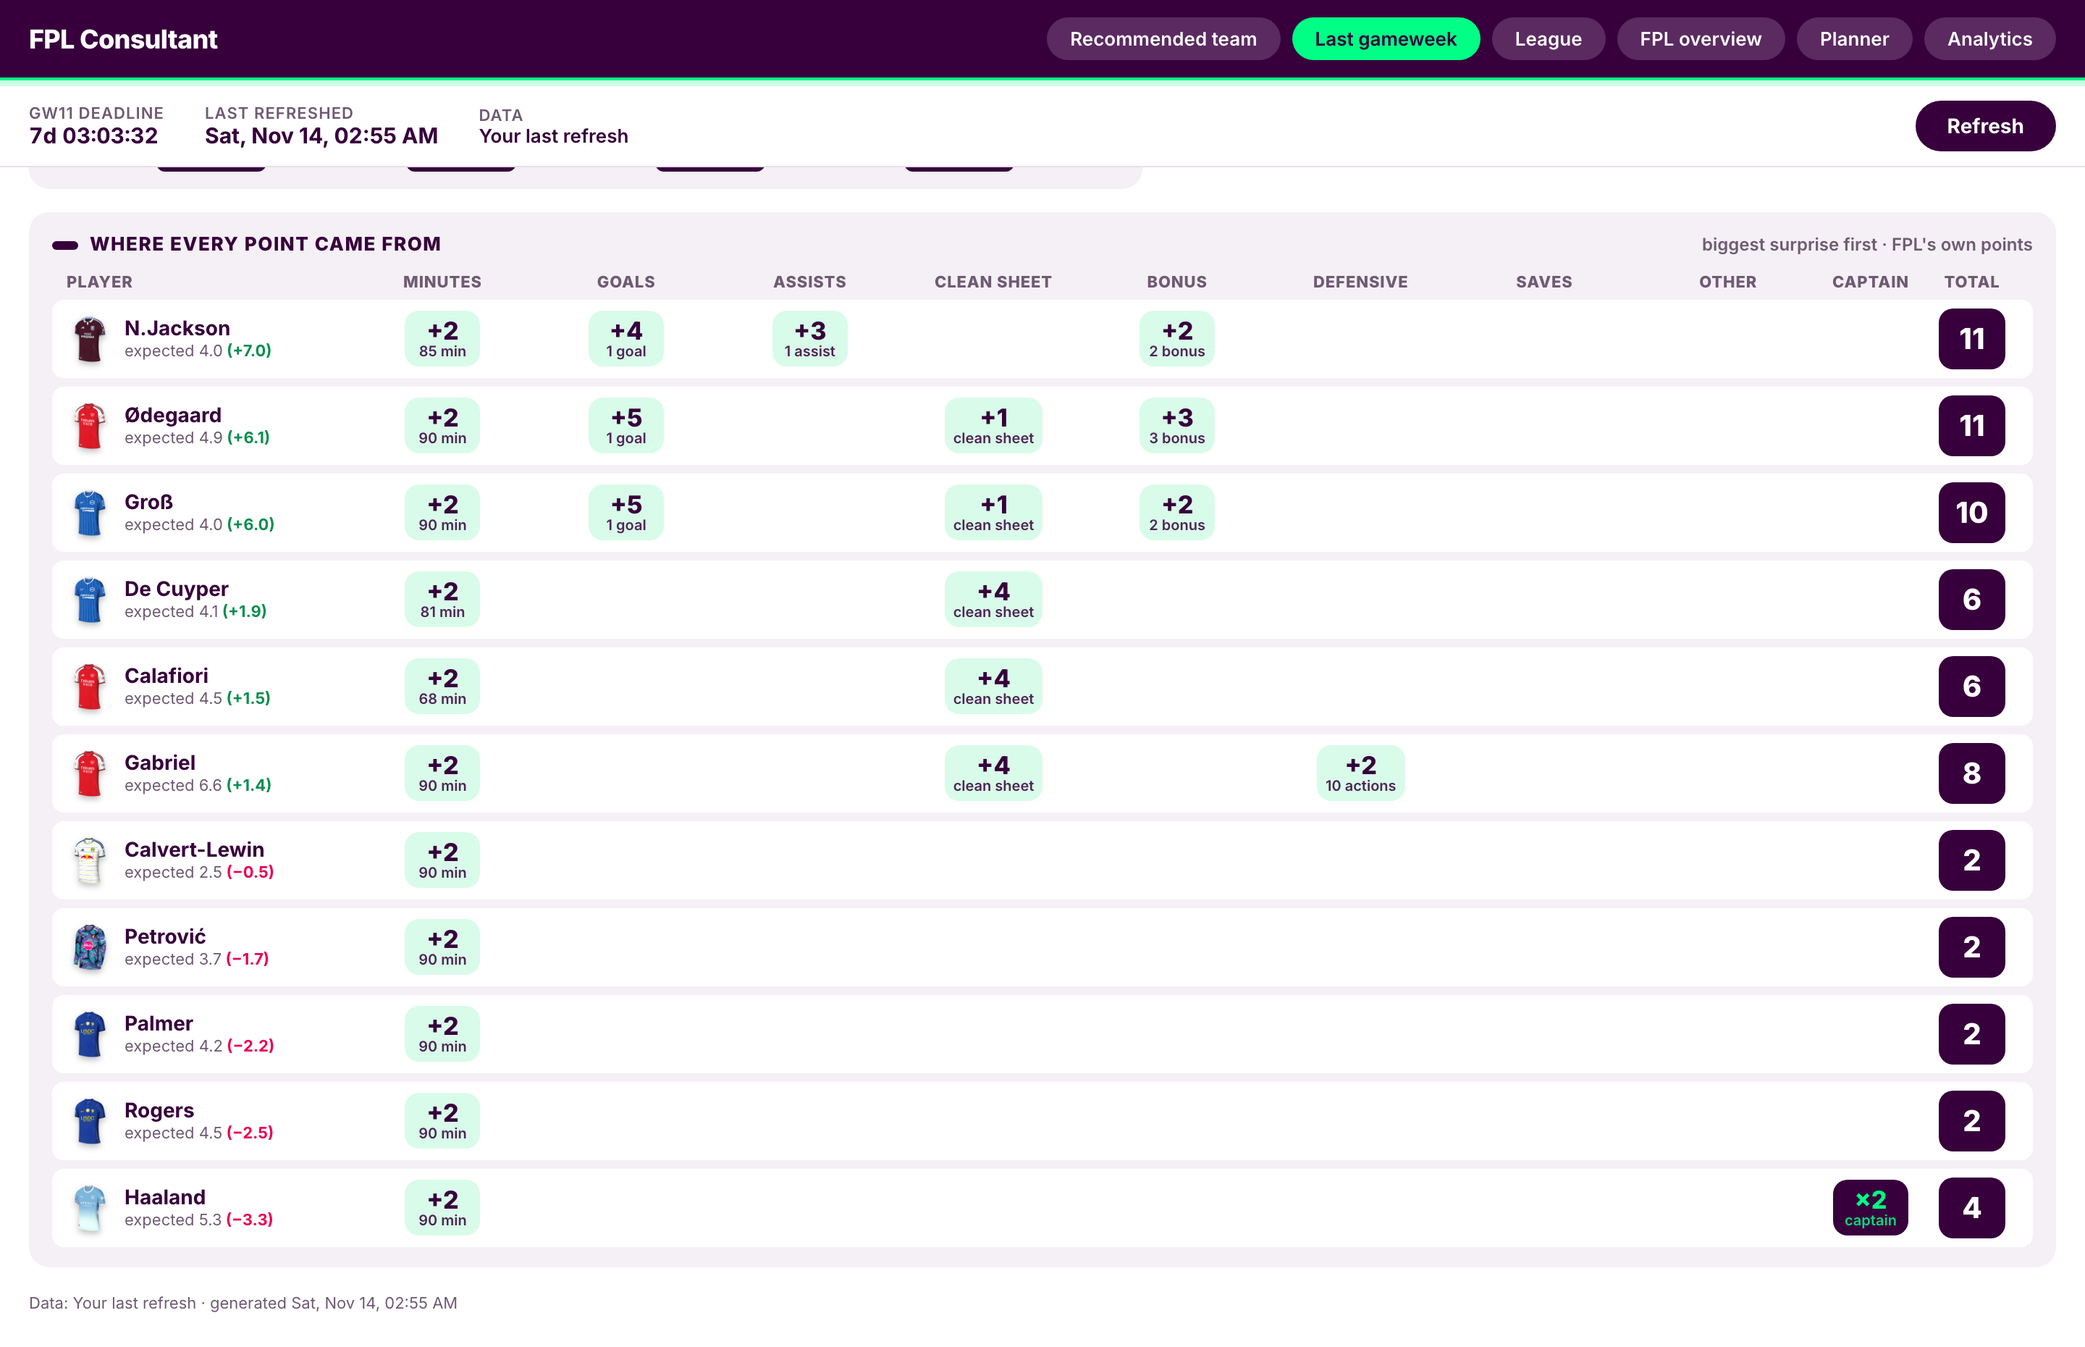
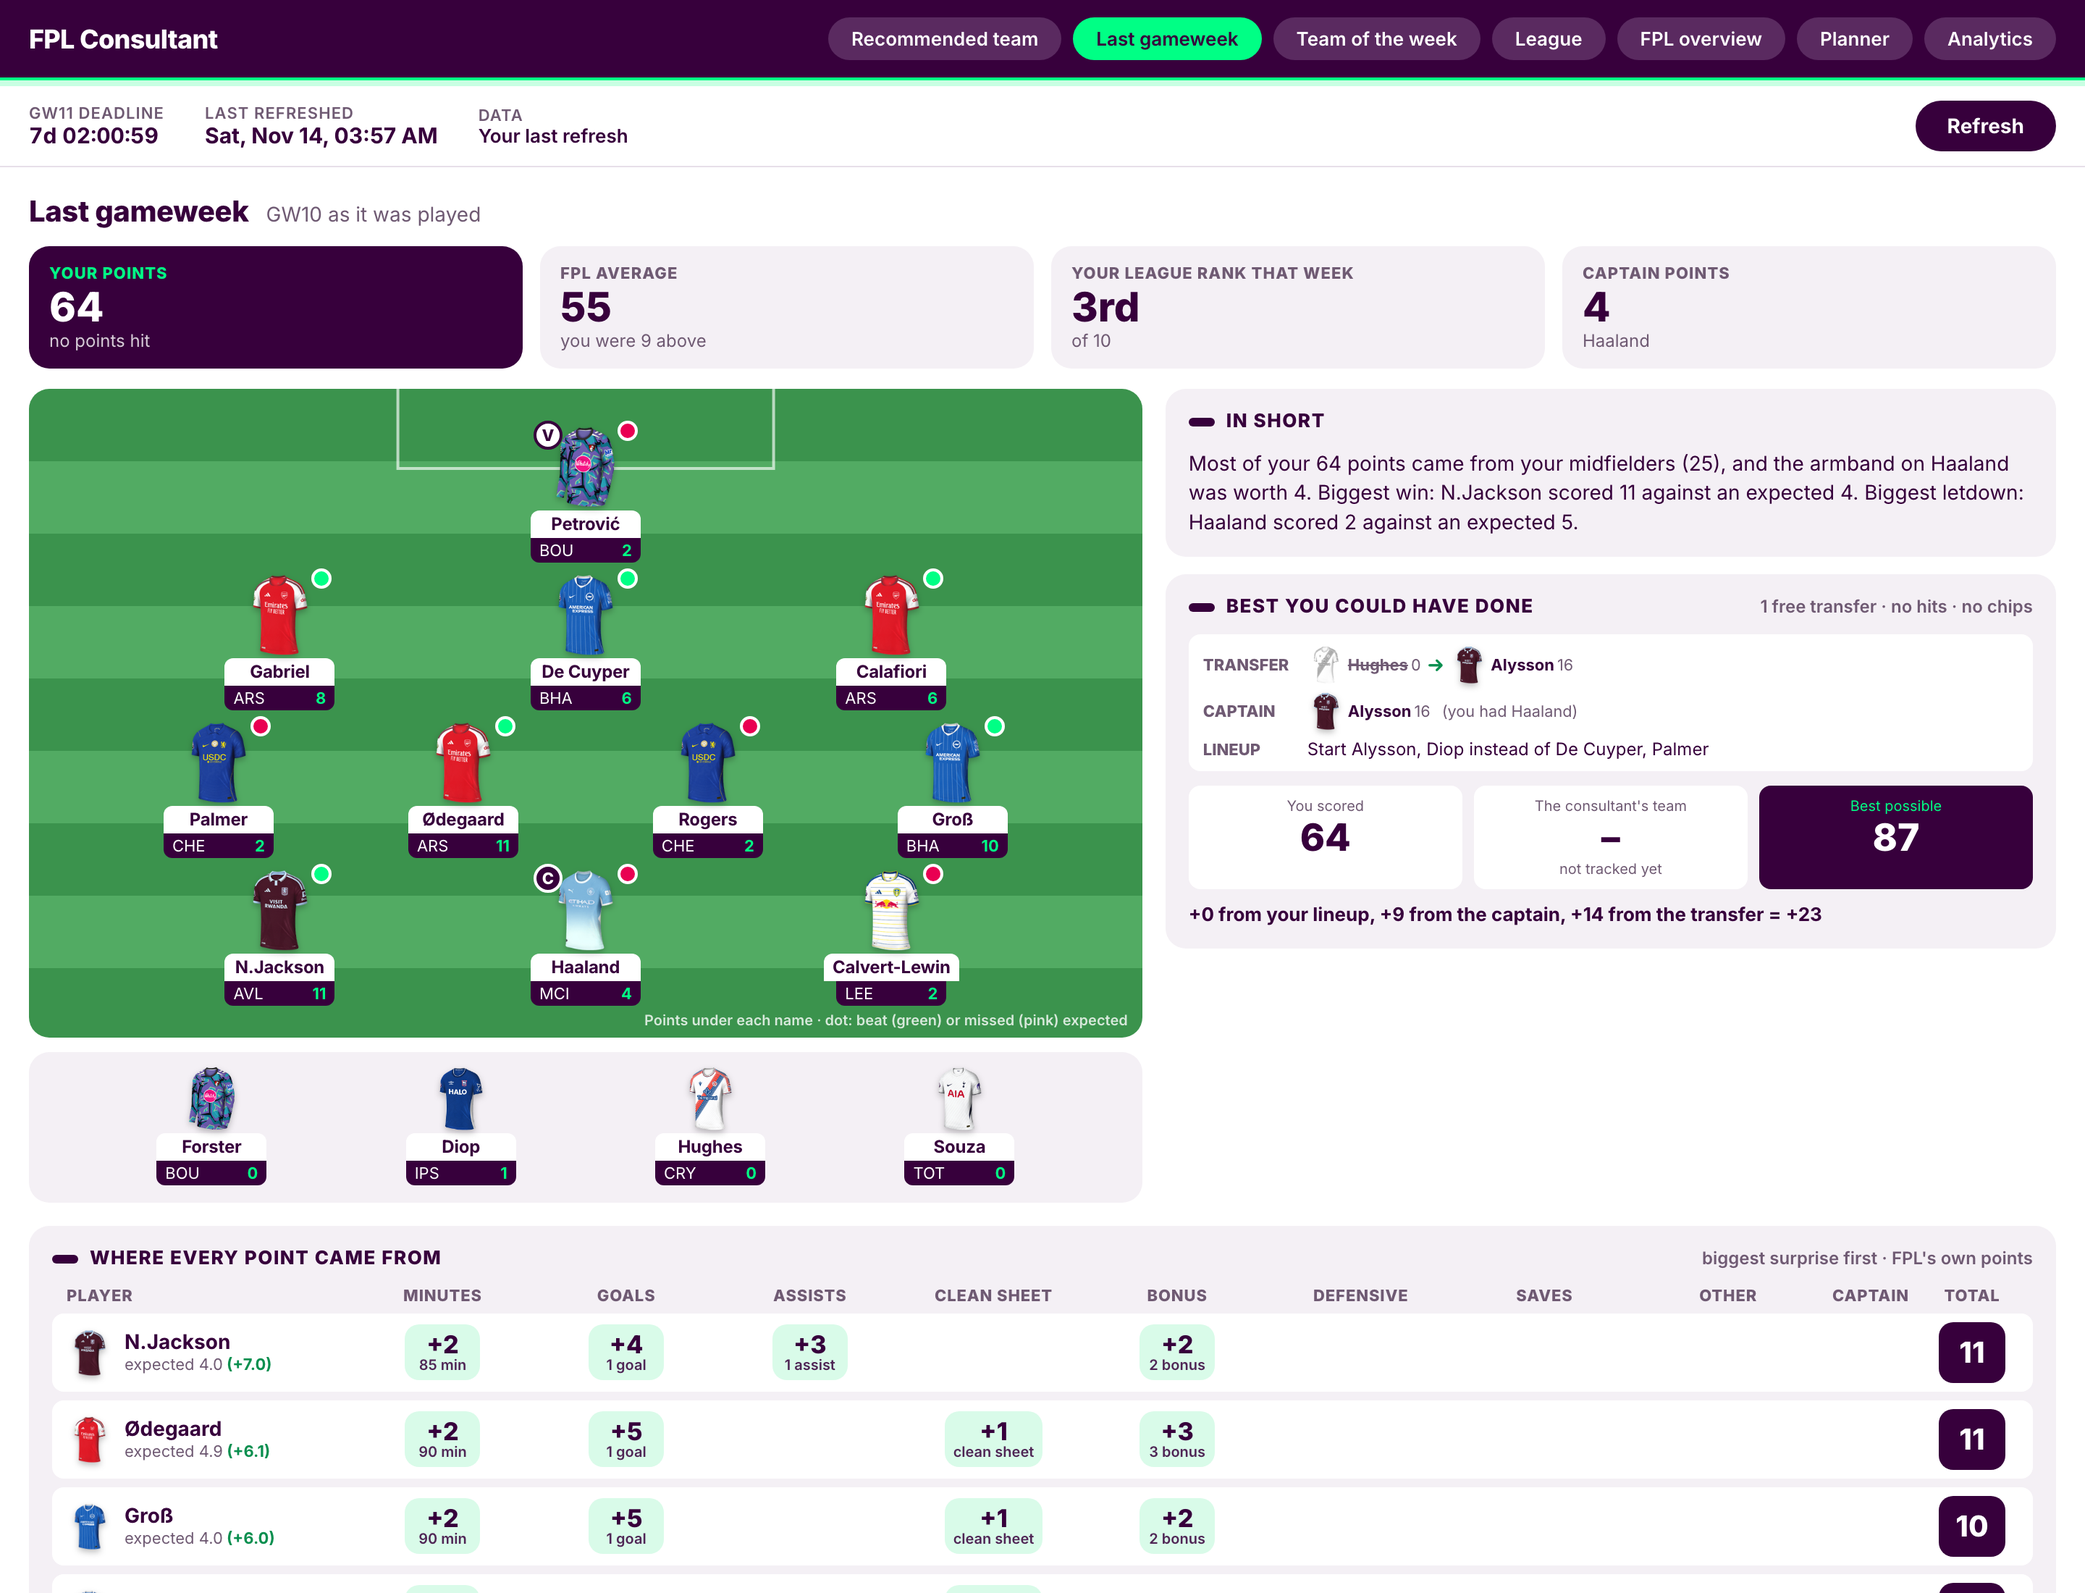
App: Team of the week page, Best you could have done card; cron backup docs

diff --git a/app/src/pages/LastGameweekPage.tsx b/app/src/pages/LastGameweekPage.tsx
@@ -11,7 +11,7 @@ import type { PlayerView } from "../model/team";
 
 type Raw = Record<string, any>;
 
-const ordinal = (n: number) =>
+export const ordinal = (n: number) =>
   `${n}${n % 100 >= 11 && n % 100 <= 13 ? "th" : ({ 1: "st", 2: "nd", 3: "rd" } as Record<number, string>)[n % 10] ?? "th"}`;
 
 // Green if the player scored at least what was expected, pink if not; none
@@ -21,7 +21,7 @@ function markerOf(c: Raw, bench: boolean): "beat" | "missed" | null {
   return c.points >= c.expected ? "beat" : "missed";
 }
 
-function toView(c: Raw, bench = false): PlayerView {
+export function toView(c: Raw, bench = false): PlayerView {
   return {
     id: c.player_id,
     name: c.web_name,
@@ -42,7 +42,7 @@ function toView(c: Raw, bench = false): PlayerView {
   };
 }
 
-function Stat({ label, value, sub, dark }: { label: string; value: string; sub?: string; dark?: boolean }) {
+export function Stat({ label, value, sub, dark }: { label: string; value: string; sub?: string; dark?: boolean }) {
   return (
     <div className={`lg-stat${dark ? " dark" : ""}`}>
       <div className="lg-stat-label">{label}</div>
@@ -110,7 +110,7 @@ function PlayerCell({ c }: { c: Raw }) {
 const Total = ({ c }: { c: Raw }) => <span className="bt-total" title="Points that counted">{c.counted_points}</span>;
 
 /** Laptop: one row per player (one per match in a double gameweek). */
-function BreakdownTable({ players }: { players: Raw[] }) {
+export function BreakdownTable({ players }: { players: Raw[] }) {
   return (
     <div className="bt" role="table">
       <div className="bt-row bt-head" role="row">
@@ -147,7 +147,7 @@ function BreakdownTable({ players }: { players: Raw[] }) {
 }
 
 /** Phone: name line with the total on the right, bubbles wrapping below. */
-function BreakdownCards({ players }: { players: Raw[] }) {
+export function BreakdownCards({ players }: { players: Raw[] }) {
   return (
     <div className="bc">
       {players.map((c) => (
@@ -166,6 +166,84 @@ function BreakdownCards({ players }: { players: Raw[] }) {
         </div>
       ))}
     </div>
+  );
+}
+
+// "Best you could have done": hindsight, but only with the moves you had
+// that week (fpl/hindsight.py): your squad and bank at the deadline, your
+// free transfers, no hits, no chips. The gap is split in a fixed order.
+function Mini({ p, out }: { p: Raw; out?: boolean }) {
+  return (
+    <span className={`pl-mini${out ? " out" : ""}`}>
+      <Shirt teamCode={p.team_code} teamShort={p.team_short} goalkeeper={p.position === "GKP"} size={26} dimmed={out} title={p.web_name} />
+      <span className="pl-mini-name">{p.web_name}</span>
+      <small className="muted"> {p.points}</small>
+    </span>
+  );
+}
+
+function BestPossibleCard({ b }: { b: Raw | undefined }) {
+  if (!b) return null;
+  if (!b.available) {
+    return (
+      <Card title="Best you could have done" className="best-card">
+        <p className="muted">{b.reason}</p>
+      </Card>
+    );
+  }
+  const p = b.parts;
+  const sign = (v: number) => `${v >= 0 ? "+" : "−"}${Math.abs(v)}`;
+  const split = [
+    p.chip_hit ? `${sign(p.chip_hit)} from ${b.chip ? `not playing your ${b.chip}` : "not taking your points hit"}` : null,
+    `${sign(p.lineup)} from your lineup`,
+    `${sign(p.captain)} from the captain`,
+    `${sign(p.transfer)} from the transfer${b.transfers.length === 1 ? "" : "s"}`,
+  ].filter(Boolean);
+  return (
+    <Card title="Best you could have done" aside={`${b.free_transfers} free transfer${b.free_transfers === 1 ? "" : "s"} · no hits · no chips`} className="best-card">
+      {(b.chip || b.hits > 0) && (
+        <p className="note warn">
+          You {b.chip ? `played ${b.chip}` : ""}{b.chip && b.hits ? " and " : ""}{b.hits ? `took a ${4 * b.hits}-point hit` : ""} that week; this is the best with free transfers only.
+        </p>
+      )}
+      <div className="best-rows">
+        <div className="best-row">
+          <span className="best-label">Transfer</span>
+          {b.transfers.length ? (
+            b.transfers.map((t: Raw, i: number) => (
+              <span key={i} className="pl-move">
+                <Mini p={t.out} out /> <span className="pl-arrow">→</span> <Mini p={t.in} />
+              </span>
+            ))
+          ) : (
+            <span>Best was to keep your squad</span>
+          )}
+        </div>
+        <div className="best-row">
+          <span className="best-label">Captain</span>
+          {b.captain && <Mini p={b.captain} />}
+          {b.your_captain && b.captain && b.your_captain.player_id !== b.captain.player_id && (
+            <small className="muted">(you had {b.your_captain.web_name})</small>
+          )}
+        </div>
+        <div className="best-row">
+          <span className="best-label">Lineup</span>
+          {b.lineup_in.length ? (
+            <span className="small">
+              Start {b.lineup_in.map((x: Raw) => x.web_name).join(", ")} instead of {b.lineup_out.map((x: Raw) => x.web_name).join(", ")}
+            </span>
+          ) : (
+            <span className="small">Same starters as you fielded</span>
+          )}
+        </div>
+      </div>
+      <div className="best-nums">
+        <div><small>You scored</small><b>{b.you}</b></div>
+        <div><small>The consultant's team</small><b>{b.consultant ?? "–"}</b>{b.consultant == null && <small>not tracked yet</small>}</div>
+        <div className="hl"><small>Best possible</small><b>{b.best}</b></div>
+      </div>
+      <p className="best-split">{split.join(", ")} = {sign(b.best - b.you)}</p>
+    </Card>
   );
 }
 
@@ -229,6 +307,7 @@ export function LastGameweekPage({ data }: { data: Latest }) {
           <Card title="In short" className="lg-summary">
             <p className="why">{l.summary.join(" ")}</p>
           </Card>
+          <BestPossibleCard b={l.best_possible} />
         </div>
       </div>
 

diff --git a/app/src/pages/TeamOfTheWeekPage.tsx b/app/src/pages/TeamOfTheWeekPage.tsx
@@ -1,0 +1,77 @@
+import type { Latest } from "../data";
+import { Card } from "../components/Card";
+import { Bench, Pitch } from "../components/Pitch";
+import type { PlayerView } from "../model/team";
+import { BreakdownCards, BreakdownTable, Stat, toView } from "./LastGameweekPage";
+
+// Team of the week: the best squad anyone could legally have picked for
+// the latest finished gameweek (fpl/hindsight.py, the same MILP as the
+// forward plan, scored with real points). Same layout and components as
+// the Last gameweek page.
+
+type Raw = Record<string, any>;
+
+export function TeamOfTheWeekPage({ data }: { data: Latest }) {
+  const t: Raw | undefined = data.team_of_the_week;
+  if (!t?.available) {
+    return (
+      <Card title="Team of the week">
+        <p className="muted">{t?.reason ?? "No finished gameweek in this update yet. Press Refresh to run a fresh update."}</p>
+      </Card>
+    );
+  }
+  const xi: PlayerView[] = t.starting_xi.map((c: Raw) => ({ ...toView(c), opponent: `£${c.price.toFixed(1)}m` }));
+  const bench: PlayerView[] = t.bench.map((c: Raw) => ({ ...toView(c, true), opponent: `£${c.price.toFixed(1)}m`, benchLabel: null }));
+
+  return (
+    <div className="lastgw-page">
+      <div className="page-title">
+        <h1>Team of the week</h1>
+        <span className="muted">
+          GW{t.gameweek} · {t.formation} · £{t.cost.toFixed(1)}m
+        </span>
+      </div>
+      <p className="planner-note">{t.note}</p>
+
+      <div className="lg-strip">
+        <Stat dark label="Team of the week" value={String(t.total)} sub={t.captain_name ? `captain ${t.captain_name}` : undefined} />
+        <Stat label="Your points" value={String(t.you)} sub={`${t.total - t.you} behind the best`} />
+        <Stat label="The consultant's team" value={t.consultant != null ? String(t.consultant) : "–"} sub={t.consultant != null ? undefined : "not tracked yet"} />
+        <Stat label="FPL average" value={t.fpl_average != null ? String(t.fpl_average) : "–"} />
+      </div>
+
+      <div className="lg-grid">
+        <div className="lg-left">
+          <Pitch players={xi} legend="Points under each name · price on the left" />
+          <Bench players={bench} />
+        </div>
+        <div className="lg-right">
+          <Card title="How predictable was it?" className="lg-summary">
+            {t.has_expected ? (
+              <p className="why">
+                Before the deadline this team was expected to score about <b>{Math.round(t.expected_total)}</b> points; it scored{" "}
+                <b>{t.total}</b>. The difference is the luck and surprises no projection could see.
+              </p>
+            ) : (
+              <p className="why">No saved pre-deadline expectations for this gameweek, so only actual points are shown.</p>
+            )}
+            {t.dream_team && (
+              <p className="note muted">
+                FPL's own Team of the Week scored {t.dream_team.total} (no captain doubling), but it ignores the budget and the 3-per-club limit.
+              </p>
+            )}
+          </Card>
+        </div>
+      </div>
+
+      <Card title="Where every point came from" aside="FPL's own points" className="lg-breakdown">
+        <div className="show-laptop">
+          <BreakdownTable players={t.players} />
+        </div>
+        <div className="show-phone">
+          <BreakdownCards players={t.players} />
+        </div>
+      </Card>
+    </div>
+  );
+}

diff --git a/app/src/theme/theme.css b/app/src/theme/theme.css
@@ -479,6 +479,19 @@ h1, h2 { margin: 0; letter-spacing: -0.01em; }
 .miss-act.down { background: var(--pink); }
 .miss-num { text-align: right; font-variant-numeric: tabular-nums; }
 
+
+/* ---------------------------------------------------------------- best you could have done */
+.best-card .best-rows { display: flex; flex-direction: column; gap: 6px; background: var(--white); border-radius: var(--radius-sm); padding: 8px 10px; }
+.best-row { display: flex; align-items: center; gap: 8px; flex-wrap: wrap; font-size: 13px; }
+.best-label { width: 64px; font-size: 11px; font-weight: 800; text-transform: uppercase; color: var(--text-muted); }
+.best-nums { display: grid; grid-template-columns: repeat(3, minmax(0, 1fr)); gap: 8px; margin-top: 10px; }
+.best-nums div { background: var(--white); border-radius: var(--radius-sm); padding: 8px; display: flex; flex-direction: column; align-items: center; }
+.best-nums small { font-size: 10px; color: var(--text-muted); text-align: center; }
+.best-nums b { font-size: 26px; font-weight: 800; }
+.best-nums .hl { background: var(--purple); color: var(--white); }
+.best-nums .hl small { color: var(--neon); }
+.best-split { font-size: 13px; font-weight: 700; }
+
 /* ---------------------------------------------------------------- placeholders */
 .placeholder-grid { display: grid; gap: 12px; grid-template-columns: repeat(auto-fill, minmax(280px, 1fr)); }
 .placeholder-grid code { font-size: 10px; }
@@ -537,6 +550,9 @@ h1, h2 { margin: 0; letter-spacing: -0.01em; }
   .seg { display: flex; }
   .seg button { flex: 1; padding: 6px 4px; }
   .miss-row { grid-template-columns: 96px minmax(0, 1fr) 62px; }
+
+  .bottom-nav button { font-size: 8.5px; }
+  .bottom-nav { padding: 10px 2px 8px; }
   .tracker-side { display: none; }
   .tracker-bottom { display: block; grid-area: track;
   }

diff --git a/app/src/tabs.ts b/app/src/tabs.ts
@@ -1,4 +1,5 @@
-// The app's six pages, all real: Recommended team, Last gameweek, League,
+// The app's seven pages, all real: Recommended team, Last gameweek, Team of
+// the week, League,
 // FPL overview, Planner and Analytics (pages/*.tsx). PlaceholderPage remains
 // as the fallback for a tab without a page that show a few raw latest.json
 // fields to prove the data flows. The real pages replace these one by one.
@@ -13,6 +14,7 @@ export interface TabDef {
 export const TABS: TabDef[] = [
   { id: "team", name: "Recommended team", short: "Team", fields: [] },
   { id: "lastgw", name: "Last gameweek", short: "Last GW", fields: [] },
+  { id: "totw", name: "Team of the week", short: "TOTW", fields: [] },
   { id: "league", name: "League", fields: [] },
   { id: "overview", name: "FPL overview", short: "Overview", fields: [] },
   { id: "planner", name: "Planner", fields: [] },

diff --git a/app/src/App.tsx b/app/src/App.tsx
@@ -11,6 +11,7 @@ import { OverviewPage } from "./pages/OverviewPage";
 import { LastGameweekPage } from "./pages/LastGameweekPage";
 import { PlannerPage } from "./pages/PlannerPage";
 import { AnalyticsPage } from "./pages/AnalyticsPage";
+import { TeamOfTheWeekPage } from "./pages/TeamOfTheWeekPage";
 
 interface Progress {
   stage: string;
@@ -203,6 +204,8 @@ export default function App() {
             <LeaguePage key={startRival ?? "league"} data={data} startRival={startRival} />
           ) : current.id === "lastgw" ? (
             <LastGameweekPage data={data} />
+          ) : current.id === "totw" ? (
+            <TeamOfTheWeekPage data={data} />
           ) : current.id === "planner" ? (
             <PlannerPage data={data} />
           ) : current.id === "analytics" ? (

diff --git a/README.md b/README.md
@@ -132,7 +132,10 @@ you still have, and your players' fixtures coloured by FPL's own difficulty
 (`planner` section, `fpl/planner.py`); its first week is the decision itself.
 **Analytics** is the page for technical detail, in three tabs (what happened,
 what's expected, what to do), with charts bundled locally (Chart.js) and the
-`analytics` section (`fpl/analytics.py`).
+`analytics` section (`fpl/analytics.py`). **Team of the week** shows the best
+squad anyone could legally have picked for the latest finished gameweek, and
+Last gameweek has a "Best you could have done" card (`fpl/hindsight.py`,
+validated with `uv run python -m fpl.check_hindsight`).
 
 The shared design system lives in `app/src/theme/` (colours, radii and font
 in `theme.ts`, styles in `theme.css`, club colours in `clubColours.ts`) and
@@ -217,6 +220,19 @@ deadline and skips (in seconds, green) otherwise.
    - Save, then "Test run": it should return HTTP 204, and a
      `workflow_dispatch` run appears in the Actions tab with the `update`
      job skipped (unless a deadline is 1-2 hours away).
+
+### Cron backup in use
+
+Two cron-job.org jobs trigger the workflow through `workflow_dispatch`:
+
+- **"FPL pre-deadline check"**: hourly at :45, with input `pre_deadline_check` = true
+  (goes through the deadline gate, so only one run freezes each recommendation);
+- **"FPL full refresh"**: at 06:00 and 18:00, with no inputs (a normal full run).
+
+Both use a fine-grained GitHub token limited to this repo's Actions
+(read and write). **It expires on 15 June 2027 and must be renewed then**
+(create a new one with the same settings and paste it into both jobs).
+Never put the token in the repo.
 
 ## `config.json` fields
 

diff --git a/CLAUDE.md b/CLAUDE.md
@@ -14,3 +14,16 @@ When you have finished all the work, immediately write this report as the last p
 6. State: output of `git status` and `git log --oneline -5`, and whether everything is pushed.
 
 Be factual: don't claim something was tested or evaluated unless you actually ran it.
+
+## Scheduled runs (cron backup)
+
+Two cron-job.org jobs trigger the workflow through `workflow_dispatch`:
+
+- **"FPL pre-deadline check"**: hourly at :45, with input `pre_deadline_check` = true
+  (goes through the deadline gate, so only one run freezes each recommendation);
+- **"FPL full refresh"**: at 06:00 and 18:00, with no inputs (a normal full run).
+
+Both use a fine-grained GitHub token limited to this repo's Actions
+(read and write). **It expires on 15 June 2027 and must be renewed then**
+(create a new one with the same settings and paste it into both jobs).
+Never put the token in the repo.
